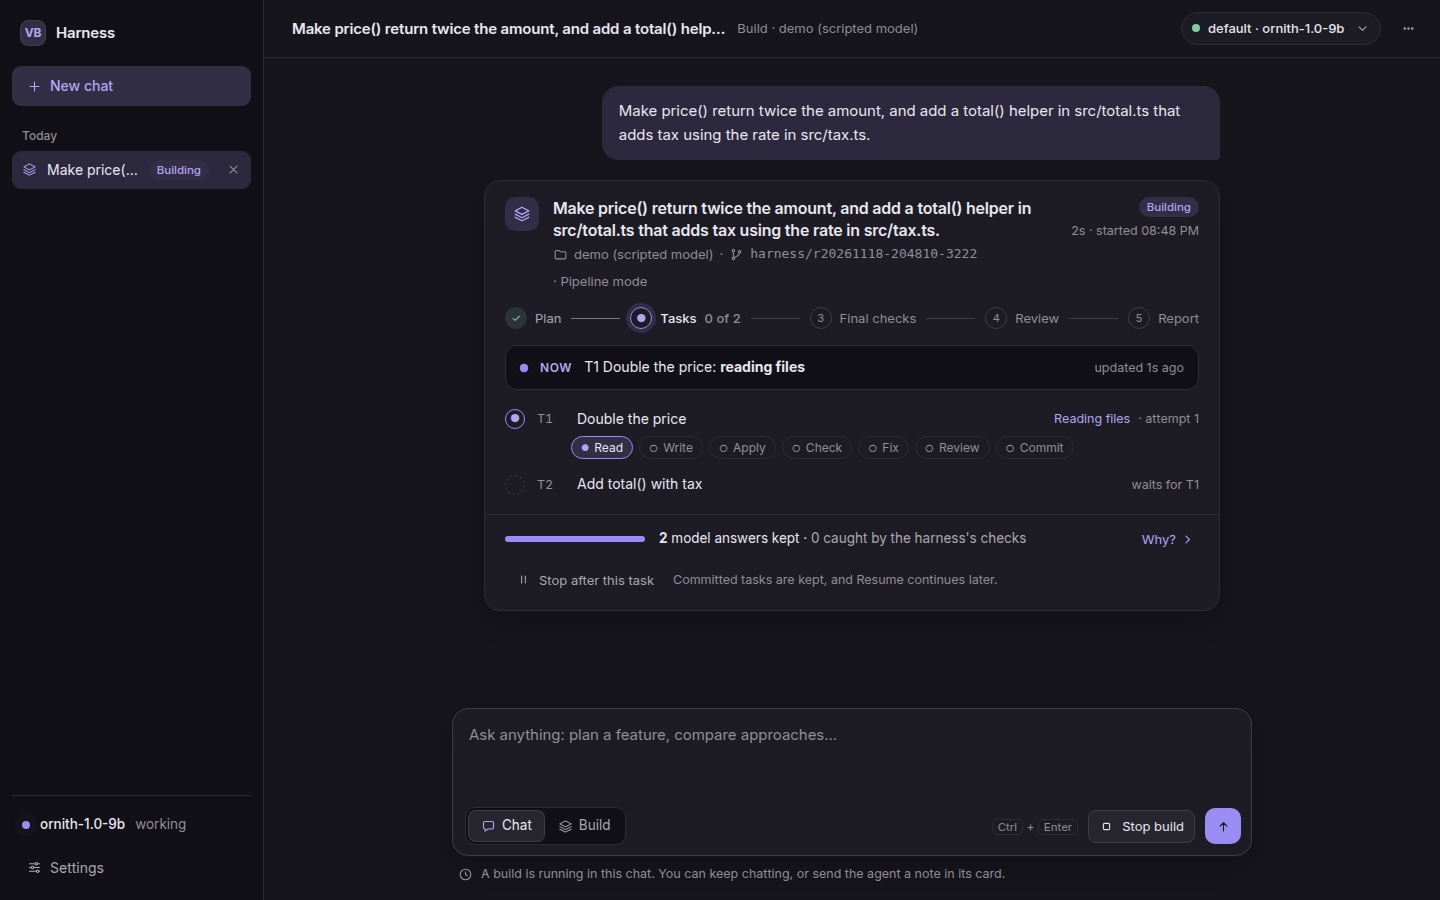
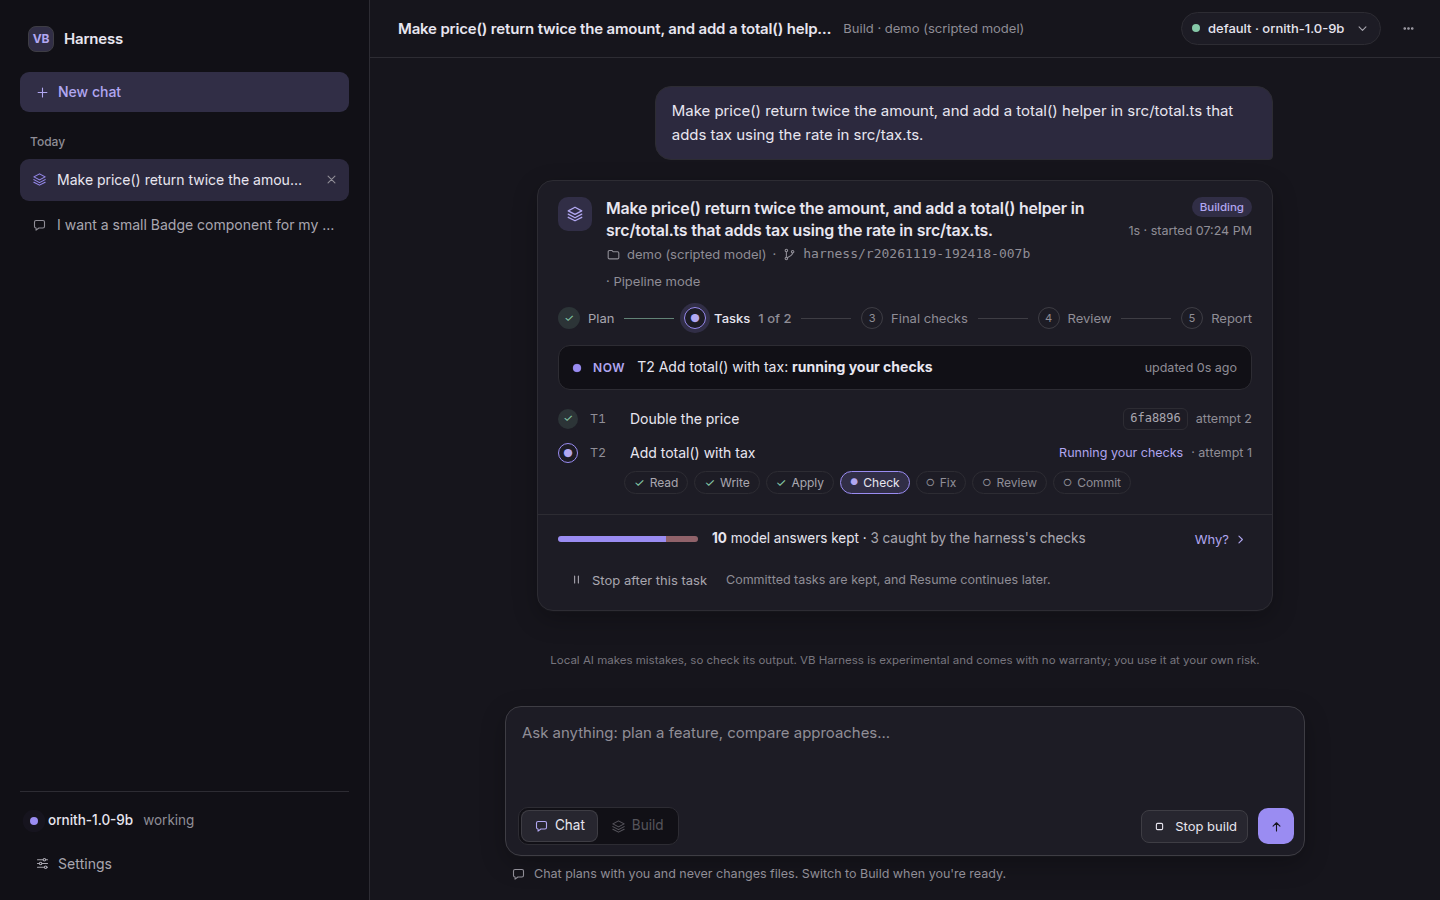
docs: screenshots of the current app
The eight README screenshots are retaken from the current app (the wider sidebar,
the outcome-first finished card, the report's plain-words opening) with a live
local model, and their captions match what each image now shows. Version 0.1.64.

diff --git a/lib/harness/version.rb b/lib/harness/version.rb
@@ -4,5 +4,5 @@
 
 module Harness
   # Semantic version of the harness. Kept in its own file so the gemspec can load it alone.
-  VERSION = "0.1.63"
+  VERSION = "0.1.64"
 end

diff --git a/README.md b/README.md
@@ -227,14 +227,14 @@ working sit at the bottom of the sidebar, next to **Settings**.
    server as the first. **Settings → How runs work** picks the [mode](#configuration) (Careful, Balanced or Quick)
    and the way of working (Pipeline or Agent).
 
-   ![Settings → Models: the model in use with its probed abilities as labels, the planning-and-review picker, and LM Studio and Ollama as found on this machine](docs/media/app-connect-a-model.png)
+   ![Settings → Models: the model in use with its probed abilities as labels and the planning-and-review picker; below, LM Studio and Ollama (not installed on this machine) with links to get one](docs/media/app-connect-a-model.png)
 2. **Chat.** Chat mode is a planning conversation: work out what to build, compare approaches, sketch the steps.
    Ctrl+Enter (⌘+Enter on macOS) sends; Enter adds a line. Replies stream. When the model thinks first, you see
    **Thinking… 4s** with its latest line of thought as it works; afterwards it folds into **Thought for 12s** above
    the reply, and a click opens the whole thought process so you can judge how it got there. Chat changes no files. **Use as build request** under a reply copies it into the text box in
    Build mode, for you to edit and send: nothing starts until you do.
 
-   ![A planning chat: asked about a Badge component for an Astro site, the local model thought for 15 seconds (folded under "Thought for 15s") and replies with an approach and a sketch of the component; under the reply, Use as build request](docs/media/app-chat.png)
+   ![A planning chat: asked about a Badge component for an Astro site, the local model thought for 7 seconds (folded under "Thought for 7s") and replies with an approach and a sketch of the component; under the reply, Use as build request](docs/media/app-chat.png)
 3. **Build.** Switch the text box to **Build**, pick a project (or **Add project**), describe the feature, and choose
    **Start build**. The line under the text box says what will happen; if something stops the build (uncommitted
    changes, a project with a problem), a card in the chat above the text box says what and offers its fixes. A live card in the chat shows the run:
@@ -252,7 +252,7 @@ working sit at the bottom of the sidebar, next to **Settings**.
    **Copy branch**, and **View report**, which opens the report beside the chat. A stopped or failed run has
    **Resume**, which continues where it left off and keeps what was committed.
 
-   ![A build in progress: the request as the card's title, the progress bar at Tasks, the Now line, task T1 at its Check step and T2 waiting for it, and the kept and caught model answers](docs/media/app-build.png)
+   ![A build in progress: the request as the card's title, the progress bar at Tasks, the Now line, task T1 committed and T2 at its Check step, and the kept and caught model answers](docs/media/app-build.png)
 
 The app only listens on `127.0.0.1`, refuses other host names, and needs a per-start token for every change.
 
@@ -465,7 +465,7 @@ changed while the run was paused. Each line says what to do about it.
 Replies that were discarded and retried with thinking off count too. Rejections show where a model struggles, and
 they are how you compare models.
 
-![A report in the app, open beside the chat: the demo run's summary, the tasks table with both tasks done and their commits, gates compared with the baseline, and empty Findings and Questions](docs/media/app-report.png)
+![A report in the app, open beside the chat and scrolled past its plain-words summary: Read this first, the tasks table with both tasks done and their commits, gates compared with the baseline, and empty Findings and Questions](docs/media/app-report.png)
 
 **Findings** in the report are only claims confirmed by a failing test. Everything else the review raised is under
 **Questions**, clearly marked as unconfirmed.
